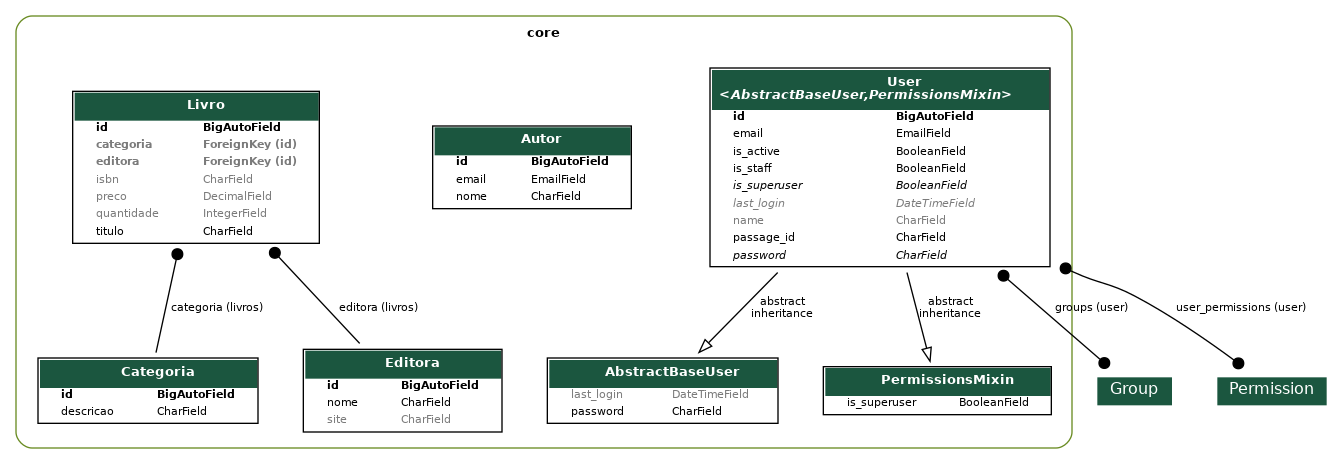
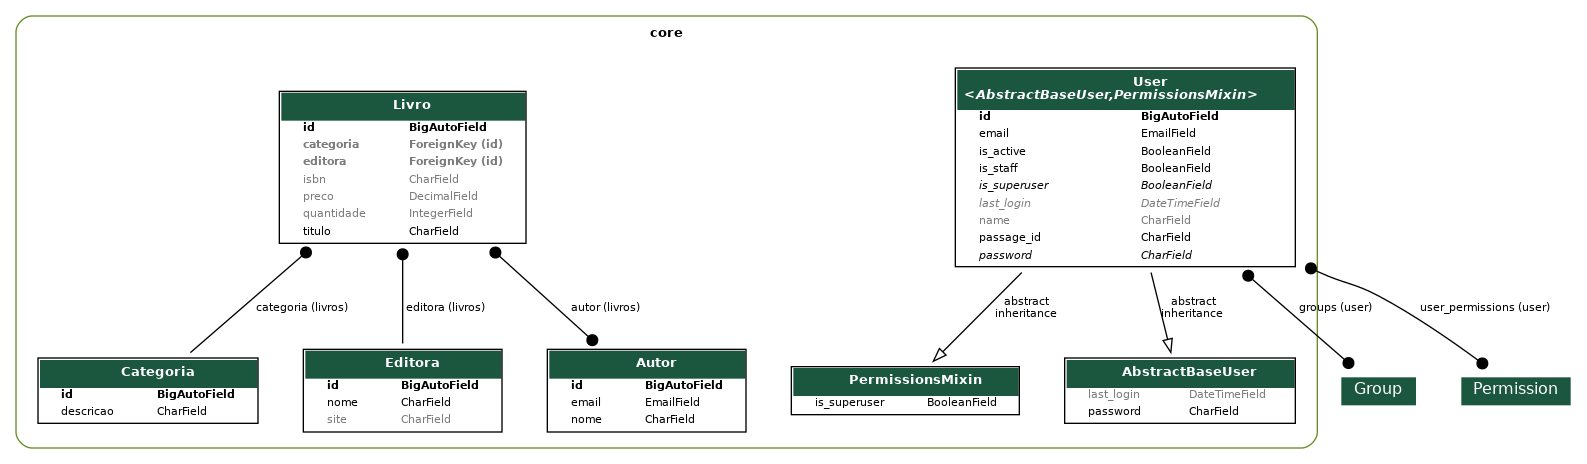
feat: criação de múltiplos serializadores para Livro

diff --git a/core/models/livro.py b/core/models/livro.py
@@ -1,5 +1,6 @@
 from django.db import models
 
+from .autor import Autor
 from .categoria import Categoria
 from .editora import Editora
 
@@ -10,6 +11,7 @@ class Livro(models.Model):
     preco = models.DecimalField(max_digits=7, decimal_places=2, default=0, null=True, blank=True)
     categoria = models.ForeignKey(Categoria, on_delete=models.PROTECT, related_name="livros", null=True, blank=True)
     editora = models.ForeignKey(Editora, on_delete=models.PROTECT, related_name='livros', null=True, blank=True)
+    autor = models.ManyToManyField(Autor, related_name='livros', blank=True)
 
     def __str__(self):
         return f"({self.id}) {self.titulo} ({self.quantidade})"

diff --git a/core/serializers/livro.py b/core/serializers/livro.py
@@ -2,7 +2,24 @@ from rest_framework.serializers import ModelSerializer
 
 from core.models import Livro
 
+# from core.serializers import (
+#     LivroListSerializer,
+#     LivroRetrieveSerializer,
+#     LivroSerializer,
+# )
+
 class LivroSerializer(ModelSerializer):
     class Meta:
         model = Livro
         fields = "__all__"
+
+class LivroListSerializer(ModelSerializer):
+    class Meta:
+        model = Livro
+        fields = ("id", "titulo", "preco")
+
+class LivroRetrieveSerializer(ModelSerializer):
+    class Meta:
+        model = Livro
+        fields = "__all__"
+        depth = 1

diff --git a/core/views/livro.py b/core/views/livro.py
@@ -1,9 +1,16 @@
 from rest_framework.viewsets import ModelViewSet
 
 from core.models import Livro
-from core.serializers import LivroSerializer
+from core.serializers import LivroListSerializer, LivroRetrieveSerializer, LivroSerializer
 
 
 class LivroViewSet(ModelViewSet):
     queryset = Livro.objects.all()
     serializer_class = LivroSerializer
+
+    def get_serializer_class(self):
+        if self.action == "list":
+            return LivroListSerializer
+        elif self.action == "retrieve":
+            return LivroRetrieveSerializer
+        return LivroSerializer

diff --git a/core/migrations/0012_livro_autor.py b/core/migrations/0012_livro_autor.py
@@ -1,0 +1,18 @@
+# Generated by Django 5.1.7 on 2025-04-22 11:40
+
+from django.db import migrations, models
+
+
+class Migration(migrations.Migration):
+
+    dependencies = [
+        ('core', '0011_livro_editora'),
+    ]
+
+    operations = [
+        migrations.AddField(
+            model_name='livro',
+            name='autor',
+            field=models.ManyToManyField(blank=True, related_name='livros', to='core.autor'),
+        ),
+    ]

diff --git a/core/serializers/__init__.py b/core/serializers/__init__.py
@@ -2,4 +2,4 @@ from .user import UserSerializer
 from .categoria import CategoriaSerializer
 from .editora import EditoraSerializer
 from .autor import AutorSerializer
-from .livro import LivroSerializer
+from .livro import LivroListSerializer, LivroRetrieveSerializer, LivroSerializer

diff --git a/core/views/__init__.py b/core/views/__init__.py
@@ -2,4 +2,4 @@ from .user import UserViewSet
 from .categoria import CategoriaViewSet
 from .editora import EditoraViewSet
 from .autor import AutorViewSet
-from .livro import LivroViewSet
+from .livro import  LivroViewSet

diff --git a/core/models/autor.py b/core/models/autor.py
@@ -6,4 +6,4 @@ class Autor(models.Model):
     email = models.EmailField(max_length=100)
 
     def __str__(self):
-        return f"{self.nome.title()} {self.email}"
+        return f"{self.nome.title()} "
